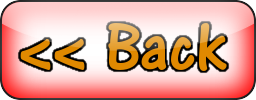
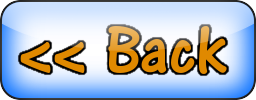
02/10/2014 - Graphics updates, non-scrolling help screen, improve help screen, success sound, game-over flash, game over screen

diff --git a/src/com/maycontainsoftware/testgdx2/GameOverScreen.java b/src/com/maycontainsoftware/testgdx2/GameOverScreen.java
@@ -9,6 +9,7 @@ import com.badlogic.gdx.scenes.scene2d.Actor;
 import com.badlogic.gdx.scenes.scene2d.Stage;
 import com.badlogic.gdx.scenes.scene2d.actions.Actions;
 import com.badlogic.gdx.scenes.scene2d.ui.Button;
+import com.badlogic.gdx.scenes.scene2d.ui.HorizontalGroup;
 import com.badlogic.gdx.scenes.scene2d.ui.Image;
 import com.badlogic.gdx.scenes.scene2d.ui.Label;
 import com.badlogic.gdx.scenes.scene2d.ui.Table;
@@ -36,7 +37,8 @@ public class GameOverScreen implements Screen {
 	 * @param game
 	 *            The Game instance.
 	 */
-	public GameOverScreen(final MyGame game) {
+	public GameOverScreen(final MyGame game, final Difficulty difficulty,
+			final PlayerConfiguration playerConfiguration, final Pelmanism model) {
 		this.game = game;
 
 		// Create Stage
@@ -48,44 +50,112 @@ public class GameOverScreen implements Screen {
 		// Root of the Stage is a Table, used to lay out all other widgets
 		final Table table = new Table();
 		table.setFillParent(true);
-		table.defaults().pad(10.0f);
+		table.defaults().padTop(10.0f);
 		stage.addActor(table);
-		
+
 		// Title
 		table.row();
 		table.add(new Image(game.uiAtlas.findRegion("pelmanism_title"))).colspan(3);
-		
-		
+
 		table.row();
-		table.add(new Label("Game Over", game.skin, "arcena64", Color.WHITE));
+		table.add(new Label("Game Over!", game.skin, "arcena64", Color.WHITE));
+
+		// Difficulty display
+		table.row();
+		table.add(new Label("Difficulty:", game.skin, "arcena32", Color.WHITE));
+		table.row().padTop(0.0f);
+		// Work out type and number of stars
+		final String starRegion; 
+		final int starCount;
+		switch (difficulty) {
+		case Easy:
+			starRegion = "bronze_star";
+			starCount = 1;
+			break;
+		case Medium:
+			starRegion = "silver_star";
+			starCount = 2;
+			break;
+		case Hard:
+			starRegion = "gold_star";
+			starCount = 3;
+			break;
+		default:
+			throw new IllegalStateException();
+		}
+		// Display stars, with sound and animation
+		HorizontalGroup stars = new HorizontalGroup();
+		table.add(stars);
+		for(int i = 0 ; i < starCount ; i++) {
+			final Image star = new Image(game.uiAtlas.findRegion(starRegion));
+			star.setOrigin(star.getWidth() / 2, star.getHeight() / 2);
+			star.setColor(1.0f, 1.0f, 1.0f, 0.0f);
+			star.addAction(Actions.sequence(Actions.delay(0.3f * i), new Action() {
+				@Override
+				public boolean act(float delta) {
+					game.playCardMatchSound();
+					star.setColor(Color.WHITE);
+					return true;
+				}
+			}, Actions.rotateTo(360.0f, 0.75f)));
+			stars.addActor(star);
+		}
+
+		// Score display
+		table.row();
+		table.add(new Label("Scores:", game.skin, "arcena32", Color.WHITE));
+		for (int i = 0; i < model.getNumberOfPlayers(); i++) {
+			table.row().padTop(0.0f);
+			final int score = model.getPlayerScore(i);
+			final String line = playerConfiguration.getPlayerName(i) + ": " + score + " point" + (score != 1 ? "s" : "");
+			table.add(new Label(line, game.skin, "arcena48", playerConfiguration.getPlayerColor(i)));
+		}
 		
-		
-		// Initial ideas for game over screen:-
-		
-		// Game could be one-player, two-player or player vs computer
-		// Game can be won by player one, player two or computer
-		// Or game can be a tie!
-		// Winner has a score
-		// Loser has a score
-		// Or tied players have the same score
-		
+		// Winner display
+		table.row();
+		// TODO: What about a tie?
+		final String winnerText;
+		final Color winnerColor;
+		if(model.getNumberOfPlayers() == 1) {
+			winnerText = "Congratulations!";
+			winnerColor = playerConfiguration.getPlayerColor(0);
+		} else if(model.getPlayerScore(0) == model.getPlayerScore(1)) {
+			winnerText = "It's a tie!";
+			winnerColor = Color.WHITE;
+		} else if(model.getPlayerScore(0) > model.getPlayerScore(1)) {
+			winnerText = playerConfiguration.getPlayerName(0) + " is the winner!";
+			winnerColor = playerConfiguration.getPlayerColor(0);
+		} else {
+			winnerText = playerConfiguration.getPlayerName(1) + " is the winner!";
+			winnerColor = playerConfiguration.getPlayerColor(1);
+		}
+		table.add(new Label(winnerText, game.skin, "arcena64", winnerColor));
+
 		// Buttons
+		table.row();
+		table.add(new Label("[Play Again]", game.skin, "arcena32", Color.WHITE));
+		table.row();
+		table.add(new Label("[Quit to Menu]", game.skin, "arcena32", Color.WHITE));
+		
+		
+		// Temp Buttons
 		table.row().padTop(50.0f);
 		// Help Button
-		final Drawable buttonOn = new TextureRegionDrawable(game.uiAtlas.findRegion("help_button_on"));
-		final Drawable buttonOff = new TextureRegionDrawable(game.uiAtlas.findRegion("help_button_off"));
+		final Drawable buttonOn = new TextureRegionDrawable(game.uiAtlas.findRegion("quit_game_button_on"));
+		final Drawable buttonOff = new TextureRegionDrawable(game.uiAtlas.findRegion("quit_game_button_off"));
 		final Button button = new Button(buttonOff, buttonOn);
 		button.addListener(new ChangeListener() {
 			@Override
 			public void changed(ChangeEvent event, Actor actor) {
-				table.addAction(Actions.sequence(new SetInputProcessorAction(null), Actions.fadeOut(0.125f), new Action() {
-					@Override
-					public boolean act(float delta) {
-						GameOverScreen.this.game.setScreen(new MainMenuScreen(GameOverScreen.this.game));
-						GameOverScreen.this.dispose();
-						return true;
-					}
-				}));
+				table.addAction(Actions.sequence(new SetInputProcessorAction(null), Actions.fadeOut(0.125f),
+						new Action() {
+							@Override
+							public boolean act(float delta) {
+								GameOverScreen.this.game.setScreen(new MainMenuScreen(GameOverScreen.this.game));
+								GameOverScreen.this.dispose();
+								return true;
+							}
+						}));
 			}
 		});
 		table.add(button);
@@ -93,7 +163,7 @@ public class GameOverScreen implements Screen {
 		// Fade in, then redirect all input events to the Stage
 		table.setColor(1.0f, 1.0f, 1.0f, 0.0f);
 		table.addAction(Actions.sequence(Actions.fadeIn(0.125f), new SetInputProcessorAction(stage)));
-		
+
 		// table.debug();
 	}
 

diff --git a/src/com/maycontainsoftware/testgdx2/HelpScreen.java b/src/com/maycontainsoftware/testgdx2/HelpScreen.java
@@ -10,7 +10,6 @@ import com.badlogic.gdx.scenes.scene2d.Stage;
 import com.badlogic.gdx.scenes.scene2d.actions.Actions;
 import com.badlogic.gdx.scenes.scene2d.ui.Button;
 import com.badlogic.gdx.scenes.scene2d.ui.Label;
-import com.badlogic.gdx.scenes.scene2d.ui.ScrollPane;
 import com.badlogic.gdx.scenes.scene2d.ui.Table;
 import com.badlogic.gdx.scenes.scene2d.utils.ChangeListener;
 import com.badlogic.gdx.scenes.scene2d.utils.Drawable;
@@ -48,78 +47,56 @@ public class HelpScreen implements Screen {
 		// Use global camera
 		stage.setCamera(game.camera);
 
-		// All help/credit text exists within a Table
-		// The table exists in a ScrollPane
-		// The ScrollPane is added to the root Table
-		// The root Table is added to the Stage
-
-		final Table scrollingTable = new Table();
-		scrollingTable.defaults().pad(10.0f);
+		// Root table
+		final Table table = new Table();
+		table.setFillParent(true);
+		table.defaults().pad(10.0f);
+		// rootTable.debug();
 
 		// How to play
-		scrollingTable.row();
-		scrollingTable.add(new Label("How to Play:", game.skin, "arcena64", Color.RED));
+		table.row();
+		table.add(new Label("How to Play:", game.skin, "arcena64", Color.RED));
 
 		// TODO: Improve help/credits text
 		final String[] howToPlayText = {
 				"Players take it in turns to pick two cards.\n" +
-				"Find a pair and you win a point and get to pick\n" +
-				"again!  Get the highest score to win the game.",
+				"Find a pair: win a point, and you get to pick\n" +
+				"again!  Highest score wins the game.",
 				
 				"Play solo, against a friend or against the\n" +
 				"computer.",
 				
-				"Higher difficulties offer larger boards,\n" +
-				"faster play and more challenging computer\n" +
-				"players." };
+				"Higher difficulties offer larger boards\n" +
+				"and more challenging computer players." };
 
 		for (final String line : howToPlayText) {
-			scrollingTable.row();
-			scrollingTable.add(new Label(line, game.skin, "arcena32", Color.WHITE)).fillX();
+			table.row();
+			table.add(new Label(line, game.skin, "arcena32", Color.WHITE)).fillX();
 		}
 		
 		// Credits
-		scrollingTable.row();
-		scrollingTable.add(new Label("Credits:", game.skin, "arcena64", Color.RED));
+		table.row();
+		table.add(new Label("Credits:", game.skin, "arcena64", Color.RED));
 
 		final String creditsText =
 				"Game created by Charlie Dobbie\n" +
 				"for MayContainSoftware.com.\n" +
 				"Developed in libGDX.";
 
-		scrollingTable.row();
-		scrollingTable.add(new Label(creditsText, game.skin, "arcena32", Color.WHITE)).fillX();
+		table.row();
+		table.add(new Label(creditsText, game.skin, "arcena32", Color.WHITE)).fillX();
 
 		// scrollingTable.debug();
 
-		// ScrollPane to hold scrolling table
-		final ScrollPane scroll = new ScrollPane(scrollingTable, game.skin);
-		scroll.setFadeScrollBars(false);
-
-		// Root table
-		final Table rootTable = new Table();
-		rootTable.setFillParent(true);
-		// rootTable.debug();
-
-		// Add the scrolling area
-		rootTable.row();
-		rootTable.add(scroll).fill().expand();
-
-		// TODO: A better scroll indication line? Improve the scrollbar?
-		//rootTable.row().height(15.0f);
-		//rootTable.add(new Image(game.uiAtlas.findRegion("scroll_indication_line2"))).padTop(5.0f);
-		
-		// TODO: If scrolling table is not required, rip all this out
-
 		// Back button
-		rootTable.row();
+		table.row();
 		final Drawable backButtonOn = new TextureRegionDrawable(game.uiAtlas.findRegion("back_button_on"));
 		final Drawable backButtonOff = new TextureRegionDrawable(game.uiAtlas.findRegion("back_button_off"));
 		final Button backButton = new Button(backButtonOff, backButtonOn);
 		backButton.addListener(new ChangeListener() {
 			@Override
 			public void changed(ChangeEvent event, Actor actor) {
-				rootTable.addAction(Actions.sequence(new SetInputProcessorAction(null), Actions.fadeOut(0.125f),
+				table.addAction(Actions.sequence(new SetInputProcessorAction(null), Actions.fadeOut(0.125f),
 						new Action() {
 							@Override
 							public boolean act(float delta) {
@@ -130,14 +107,14 @@ public class HelpScreen implements Screen {
 						}));
 			}
 		});
-		rootTable.add(backButton).padTop(5.0f);
+		table.add(backButton).padTop(40.0f).padBottom(20.0f);
 
 		// Add the root table to the stage
-		stage.addActor(rootTable);
+		stage.addActor(table);
 
 		// Fade in, then redirect all input events to the Stage
-		rootTable.setColor(1.0f, 1.0f, 1.0f, 0.0f);
-		rootTable.addAction(Actions.sequence(Actions.fadeIn(0.125f), new SetInputProcessorAction(stage)));
+		table.setColor(1.0f, 1.0f, 1.0f, 0.0f);
+		table.addAction(Actions.sequence(Actions.fadeIn(0.125f), new SetInputProcessorAction(stage)));
 	}
 
 	@Override

diff --git a/src/com/maycontainsoftware/testgdx2/GameScreen.java b/src/com/maycontainsoftware/testgdx2/GameScreen.java
@@ -25,6 +25,7 @@ import com.badlogic.gdx.scenes.scene2d.ui.Skin;
 import com.badlogic.gdx.scenes.scene2d.ui.Table;
 import com.badlogic.gdx.scenes.scene2d.utils.ChangeListener;
 import com.badlogic.gdx.scenes.scene2d.utils.Drawable;
+import com.badlogic.gdx.scenes.scene2d.utils.NinePatchDrawable;
 import com.badlogic.gdx.scenes.scene2d.utils.TextureRegionDrawable;
 import com.badlogic.gdx.scenes.scene2d.utils.TiledDrawable;
 
@@ -207,7 +208,8 @@ public class GameScreen implements Screen {
 			gameOverFlash.setColor(1.0f, 1.0f, 1.0f, 0.0f);
 			gameOverFlash.setVisible(true);
 			gameOverFlash.addAction(Actions.sequence(Actions.fadeIn(0.5f), Actions.delay(1.0f), new ScreenChangeAction(
-					game, GameScreen.this, new GameOverScreen(game))));
+					game, GameScreen.this, new GameOverScreen(game, difficulty, playerConfiguration, model))));
+			game.playSuccessSound();
 			gameState = GameState.GameOver;
 		} else {
 			gameState = GameState.PendingFirstPick;
@@ -619,11 +621,15 @@ public class GameScreen implements Screen {
 
 		// Game over flash panel
 		gameOverFlash = new Table();
-		gameOverFlash.setFillParent(true);
+		//gameOverFlash.setFillParent(true);
+		gameOverFlash.setBackground(new NinePatchDrawable(game.uiAtlas.createPatch("game_over_bg")));
 		// TODO: Needs to be something more complicated than an Image
-		gameOverFlash.add(new Image(cardBackRegion)).expandX().fillX();
+		//gameOverFlash.add(new Image(game.uiAtlas.findRegion("yellow"))).expandX().fillX();
+		gameOverFlash.add(new Label("Game Over!", game.skin, "arcena64", Color.RED));
+		final float flashHeight = 150.0f;
+		gameOverFlash.setBounds(0, MyGame.VIRTUAL_HEIGHT / 2 - flashHeight / 2, MyGame.VIRTUAL_WIDTH, flashHeight);
 		gameOverFlash.setVisible(false);
-		gameOverFlash.debug();
+		// gameOverFlash.debug();
 		stage.addActor(gameOverFlash);
 
 		// Fade in, then redirect all input events to the Stage

diff --git a/src/com/maycontainsoftware/testgdx2/Pelmanism.java b/src/com/maycontainsoftware/testgdx2/Pelmanism.java
@@ -189,13 +189,13 @@ public class Pelmanism {
 		// Update whether or not the game is over
 		this.gameOver = (pairsFound >= numberOfPairs);
 		turn.setGameOver(this.gameOver);
-		
+
 		// Add the new turn to the turn history
 		turns.add(turn);
 
 		// Increment the turn counter
 		currentTurnId++;
-		
+
 		return turn;
 	}
 
@@ -206,7 +206,7 @@ public class Pelmanism {
 
 		// The current turn id
 		this.currentTurnId = 0;
-		
+
 		// The log of taken turns
 		this.turns.clear();
 

diff --git a/src/com/maycontainsoftware/testgdx2/LoadingScreen.java b/src/com/maycontainsoftware/testgdx2/LoadingScreen.java
@@ -71,9 +71,8 @@ public class LoadingScreen implements Screen {
 			game.manager.load(name, Sound.class);
 		}
 		game.manager.load("sound/ting.mp3", Sound.class);
+		game.manager.load("sound/success.mp3", Sound.class);
 		// TODO: More sound effects? UI feedback, game over
-		// Music
-		// TODO: Do we want background music?
 		// UI skin
 		game.manager.load("uiskin.json", Skin.class);
 	}

diff --git a/src/com/maycontainsoftware/testgdx2/MyGame.java b/src/com/maycontainsoftware/testgdx2/MyGame.java
@@ -271,6 +271,13 @@ public class MyGame extends Game {
 		}
 	}
 
+	/** Play the "success" sound, if sounds are enabled. */
+	public void playSuccessSound() {
+		if (sound) {
+			manager.get("sound/success.mp3", Sound.class).play();
+		}
+	}
+
 	/** Play the card match sound, if sounds are enabled. */
 	public void playCardMatchSound() {
 		if (sound) {

diff --git a/src/com/maycontainsoftware/testgdx2/Difficulty.java b/src/com/maycontainsoftware/testgdx2/Difficulty.java
@@ -13,6 +13,11 @@ public enum Difficulty {
 	Medium(4, 5, 0.5f),
 	// Hard difficulty
 	Hard(5, 6, 0.9f);
+	
+	// Difficulties used for testing purposes
+	//Easy(1, 2, 0.3f),
+	//Medium(2, 2, 0.5f),
+	//Hard(3, 2, 0.9f);
 
 	/** The number of columns on the board. */
 	private final int numberOfColumns;
